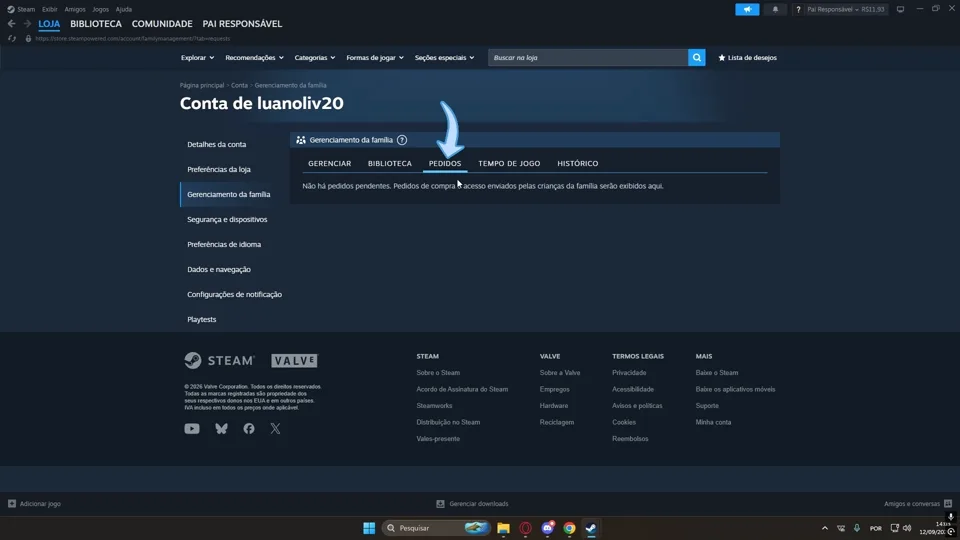
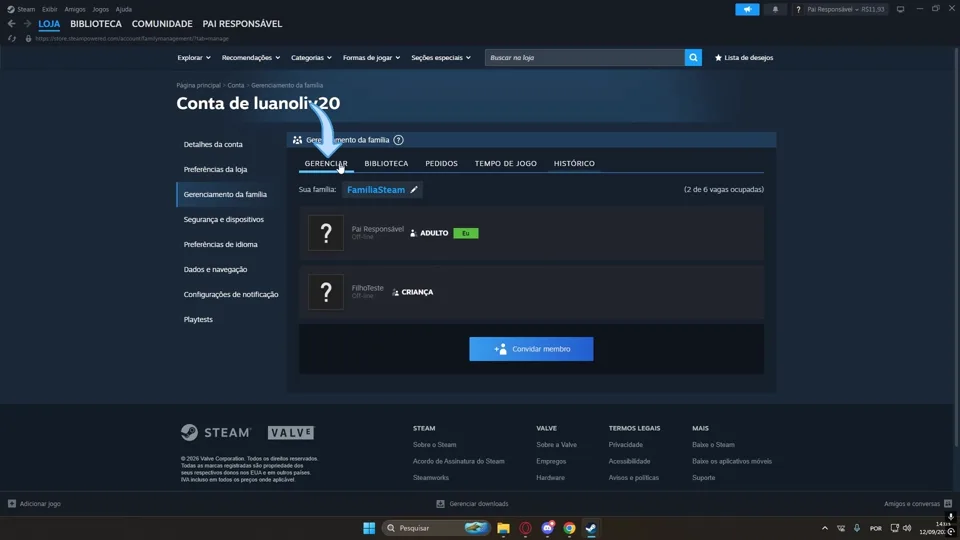
Atualiza a videoaula e as capturas do passo a passo da Steam

diff --git a/src/data/platforms.ts b/src/data/platforms.ts
@@ -243,7 +243,7 @@ export const plataformas: Platform[] = [
       {
         title: 'Crie a Família Steam e convide o menor de idade',
         description:
-          'Na conta do responsável, clique em "Steam", no canto superior esquerdo, e depois em "Configurações". Acesse a seção "Família e compartilhamento" e clique em "Criar ou entrar em uma Família Steam". Escolha "Criar uma família", defina um nome e clique em criar. Use então "Convidar membro", selecione a conta do menor e convide como criança. As duas contas precisam ser amigas para o convite chegar.',
+          'Na conta do responsável, na página inicial, clique em "Steam", no canto superior esquerdo, e depois em "Configurações". Acesse a seção "Família e compartilhamento" e clique em "Criar ou entrar em uma Família Steam". Escolha "Criar uma família", defina um nome e clique em criar. Use então "Convidar membro", selecione a conta do menor e convide como criança. As duas contas precisam ser amigas para o convite chegar.',
       },
       {
         title: 'Aceite o convite na conta do menor de idade',
@@ -253,12 +253,12 @@ export const plataformas: Platform[] = [
       {
         title: 'Abra o gerenciamento da família',
         description:
-          'De volta na conta do responsável, clique em "Steam", depois em "Configurações", acesse "Família e compartilhamento" e escolha "Gerenciar a Família Steam". A página reúne cinco áreas: Gerenciar, onde ficam os controles de cada perfil; Biblioteca, com os jogos incluídos na Família Steam; Pedidos, com as solicitações de compra e de acesso feitas pela criança; Tempo de jogo, com as horas de cada membro nos últimos dias; e Histórico, com tudo que foi alterado.',
+          'De volta na conta do responsável, na página inicial, clique em "Steam", depois em "Configurações", acesse "Família e compartilhamento" e escolha "Gerenciar a Família Steam". A página reúne cinco áreas: Gerenciar, que permite gerenciar os perfis de cada membro da família, como quais jogos cada perfil terá acesso, quais funções pode utilizar e definir limite de tempo de jogo; Biblioteca, com os jogos incluídos na Família Steam; Pedidos, com as solicitações de compra e de acesso feitas pela criança; Tempo de jogo, com as horas de jogo de cada membro nos últimos dias; e Histórico, com tudo que foi alterado.',
       },
       {
         title: 'Escolha quais jogos o menor pode acessar',
         description:
-          'Na aba "Gerenciar", clique no perfil do menor de idade e abra "Controles parentais". Na aba "Jogos permitidos", deixe marcada a opção de somente os jogos que você escolher. Em seguida, marque na lista abaixo os títulos liberados — todo o resto fica fora do alcance dele.',
+          'Na mesma página de gerenciamento da Família Steam, acesse a aba "Gerenciar", clique no perfil do menor de idade e abra "Controles parentais". Serão listados todos os jogos disponíveis na biblioteca na aba "Jogos permitidos": deixe marcada a opção "Somente jogos que eu escolher". Em seguida, marque na lista abaixo os títulos liberados — todo o resto fica fora do alcance.',
       },
       {
         title: 'Ajuste o que ele pode usar na plataforma',
@@ -279,36 +279,35 @@ export const plataformas: Platform[] = [
     ],
     video: {
       title: 'Como configurar os controles parentais da Steam',
-      src: 'https://www.youtube-nocookie.com/embed/JwzmLPSvgh0',
+      src: 'https://www.youtube-nocookie.com/embed/RcEKSyImQoA',
     },
     formatoImagens: 'paisagem',
     imagens: [
-      { passo: 1, src: '/passos/steam/p1-01.webp', legenda: 'Com a Steam aberta, clique em "Steam", no canto superior esquerdo, e depois em "Configurações".' },
+      { passo: 1, src: '/passos/steam/p1-01.webp', legenda: 'Utilizando a conta do responsável, na página inicial da Steam, clique em "Steam", no canto superior esquerdo, e depois em "Configurações".' },
       { passo: 1, src: '/passos/steam/p1-02.webp', legenda: 'Na nova tela, acesse a seção "Família e compartilhamento".' },
       { passo: 1, src: '/passos/steam/p1-03.webp', legenda: 'Clique em "Criar ou entrar em uma Família Steam".' },
       { passo: 1, src: '/passos/steam/p1-04.webp', legenda: 'Selecione "Criar uma família" e defina um nome para ela.' },
       { passo: 1, src: '/passos/steam/p1-05.webp', legenda: 'Finalize o cadastro clicando no botão "Criar".' },
-      { passo: 1, src: '/passos/steam/p1-06.webp', legenda: 'Com a família criada, aparece a opção de convidar membro.' },
-      { passo: 1, src: '/passos/steam/p1-07.webp', legenda: 'Clique em "Convidar membro" e escolha a conta do menor de idade.' },
-      { passo: 1, src: '/passos/steam/p1-08.webp', legenda: 'Convide como criança. As duas contas precisam ser amigas para o convite chegar.' },
+      { passo: 1, src: '/passos/steam/p1-06.webp', legenda: 'Com a família criada, clique no botão "Convidar membro".' },
+      { passo: 1, src: '/passos/steam/p1-07.webp', legenda: 'Selecione a conta do menor de idade.' },
+      { passo: 1, src: '/passos/steam/p1-08.webp', legenda: 'Selecione "Convidar como criança". Note que ambas as contas precisam ser amigas para que o convite chegue.' },
       { passo: 2, src: '/passos/steam/p2-01.webp', legenda: 'Na conta do menor, um sininho verde aparece no canto superior direito.' },
-      { passo: 2, src: '/passos/steam/p2-02.webp', legenda: 'Clique nele para abrir o convite enviado.' },
-      { passo: 2, src: '/passos/steam/p2-03.webp', legenda: 'A Steam explica o que a família poderá gerenciar na conta.' },
-      { passo: 2, src: '/passos/steam/p2-04.webp', legenda: 'Clique em aceitar e depois em confirmar.' },
+      { passo: 2, src: '/passos/steam/p2-02.webp', legenda: 'Clique nele para abrir o convite enviado e selecione o mesmo.' },
+      { passo: 2, src: '/passos/steam/p2-04.webp', legenda: 'Na nova página, a Steam explica o que a família poderá gerenciar na conta. Clique em "Aceitar" e depois em "Confirmar".' },
       { passo: 2, src: '/passos/steam/p2-05.webp', legenda: 'Digite o código de confirmação enviado para o e-mail do menor.' },
-      { passo: 3, src: '/passos/steam/p3-01.webp', legenda: 'De volta na conta do responsável, clique em "Steam" e depois em "Configurações".' },
+      { passo: 3, src: '/passos/steam/p3-01.webp', legenda: 'De volta na conta do responsável, na página inicial, clique em "Steam" e depois em "Configurações".' },
       { passo: 3, src: '/passos/steam/p3-02.webp', legenda: 'Em "Família e compartilhamento", escolha "Gerenciar a Família Steam".' },
-      { passo: 3, src: '/passos/steam/p3-03.webp', legenda: 'Aba "Gerenciar": onde ficam os controles de cada membro da família.' },
+      { passo: 3, src: '/passos/steam/p3-03.webp', legenda: 'Aba "Gerenciar": permite gerenciar os perfis de cada membro da família, como quais jogos cada perfil terá acesso, quais funções pode utilizar e definir limite de tempo de jogo.' },
       { passo: 3, src: '/passos/steam/p3-04.webp', legenda: 'Aba "Biblioteca": os jogos incluídos na Família Steam.' },
       { passo: 3, src: '/passos/steam/p3-05.webp', legenda: 'Aba "Pedidos": as solicitações de compra e de acesso feitas pela criança.' },
       { passo: 3, src: '/passos/steam/p3-06.webp', legenda: 'Aba "Tempo de jogo": as horas de cada membro nos últimos dias.' },
       { passo: 3, src: '/passos/steam/p3-07.webp', legenda: 'Aba "Histórico": tudo o que foi alterado na família.' },
-      { passo: 4, src: '/passos/steam/p4-01.webp', legenda: 'Na aba "Gerenciar", clique no perfil do menor de idade.' },
+      { passo: 4, src: '/passos/steam/p4-01.webp', legenda: 'Ainda na página de gerenciamento da família Steam, acesse a aba "Gerenciar" e selecione o perfil do menor de idade.' },
       { passo: 4, src: '/passos/steam/p4-02.webp', legenda: 'Abra "Controles parentais".' },
       { passo: 4, src: '/passos/steam/p4-03.webp', legenda: 'Na aba "Jogos permitidos", aparece a lista de títulos da biblioteca.' },
       { passo: 4, src: '/passos/steam/p4-04.webp', legenda: 'Deixe marcada a opção "Somente jogos que eu escolher".' },
       { passo: 4, src: '/passos/steam/p4-05.webp', legenda: 'Marque na lista os jogos que o menor poderá acessar.' },
-      { passo: 5, src: '/passos/steam/p4-06.webp', legenda: 'Na aba "Configurações", defina o que ele pode usar na plataforma.' },
+      { passo: 5, src: '/passos/steam/p4-06.webp', legenda: 'Na aba "Configurações", defina o que ele pode usar na plataforma, como ter acesso à loja, conteúdos criados por outros usuários, perfis, capturas de tela, conquistas, amigos, entre outros.' },
       { passo: 5, src: '/passos/steam/p4-07.webp', legenda: 'Ali também ficam os filtros para conteúdo adulto e violência.' },
       { passo: 6, src: '/passos/steam/p4-08.webp', legenda: 'Na aba "Limites de tempo", ajuste o uso por dia da semana.' },
       { passo: 6, src: '/passos/steam/p4-09.webp', legenda: 'Defina quanto tempo de jogo o menor terá em cada dia.' },
